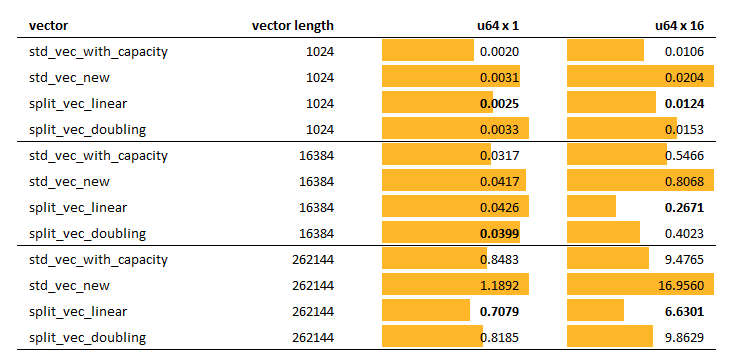
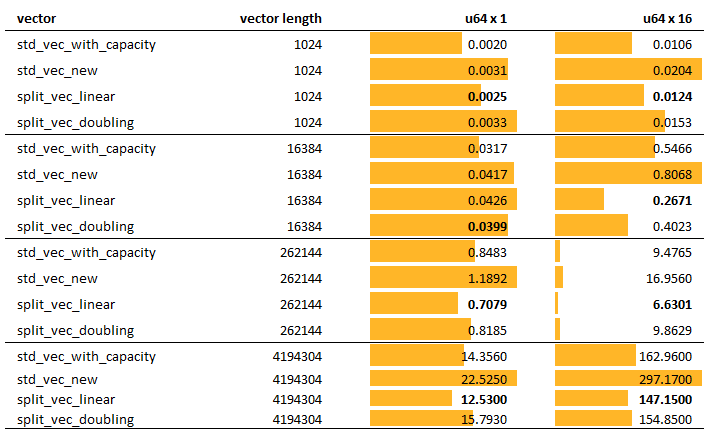
benchmarks finalized

Changed region(s): [[0.0, 0.0304, 0.9832, 0.9724]]

diff --git a/src/lib.rs b/src/lib.rs
@@ -23,7 +23,7 @@
 //! |------------------------------------------------------------------------------|----------------------------------------------------------------------------------|
 //! | Implements `PinnedVec` => can be wrapped by an `ImpVec`.                     | Implements `PinnedVec` => can be wrapped by an `ImpVec`.                         |
 //! | Requires exact capacity to be known while creating.                          | Can be created with any level of prior information about required capacity.      |
-//! | Cannot grow beyond capacity; panics when `push` is called at capacity.       | Can grow dynamically. Further, it provides detailed control on how it must grow. |
+//! | Cannot grow beyond capacity; panics when `push` is called at capacity.       | Can grow dynamically. Further, it provides control on how it must grow. |
 //! | It is just a wrapper around `std::vec::Vec`; hence, has similar performance. | Performs additional tasks to provide flexibility; hence, slightly slower.        |
 //!
 //! ## C. Growth with Pinned Elements
@@ -40,21 +40,20 @@
 //! |-----------------------------------------|-----------------------|-----------------------|-----------------|
 //! | `Linear`                                | `C`                   | `C`                   | `2 * C`         |
 //! | `Doubling`                              | `C`                   | `2 * C`               | `3 * C`         |
-//! | `Exponential { growth_coefficient: a }` | `C`                   | `a * C`               | `(1 + a) * C`   |
 //!
-//! It is straightforward to derive the growth formula from the example. Further, you may notice that `Doubling` is a special case of `Exponential` where `growth_coefficient` is 2; the reason it co-exists is that it allows for faster element access in general.
+//! `C` is set on initialization as a power of two for `Linear` and fixed to 4 for `Doubling` to allow for access time optimizations.
 //!
 //! ### C.2. Custom Growth Strategies
 //!
 //! In order to define a custom growth strategy, one needs to implement the `Growth` trait. Implementation is straightforward. The trait contains two methods. The following method is required:
 //!
 //! ```rust ignore
-//! fn new_fragment_capacity<T>(&self, fragments: &[Fragment<T>]) -> usize;
+//! fn new_fragment_capacity<T>(&self, fragments: &[Fragment<T>]) -> usize
 //! ```
 //!
 //! Notice that it takes as argument all priorly allocated fragments and needs to decide on the capacity of the new fragment.
 //!
-//! The second method `fn get_fragment_and_inner_indices<T>(&self, fragments: &[Fragment<T>], element_index: usize) -> Option<(usize, usize)>` has a default implementation and can be overwritten if the strategy allows for efficient computation of the indices.
+//! The second method `fn get_fragment_and_inner_indices<T>(&self, vec_len: usize, fragments: &[Fragment<T>], element_index: usize) -> Option<(usize, usize)>` has a default implementation and can be overwritten if the strategy allows for efficient computation of the indices.
 //!
 //! ## D. Examples
 //!
@@ -170,7 +169,7 @@
 //!     assert_eq!(if i == 0 { 42 } else { i }, *elem);
 //! }
 //!
-//! // now the split vector is composed of 11 fragments each with a capacity of 8 (2^3)
+//! // now the split vector is composed of `11` fragments each with a capacity of 8 (2^3)
 //! assert_eq!(11, vec.fragments().len());
 //!
 //! // the memory location of the first element remains intact
@@ -179,6 +178,31 @@
 //! // we can safely (using unsafe!) dereference it and read the correct value
 //! assert_eq!(unsafe { *addr42 }, 42);
 //! ```
+//!
+//! ## E. Benchmarks
+//!
+//! Split vector variants have a comparable speed with the standard vector while building and between 1 - 4 times slower with random access. The latter varies on the element size of the vector and the number of elements in the network. The gap diminishes as either of these factors increases. You may see the details below.
+//!
+//! ### E.1. Grow
+//!
+//! *You may see the benchmark at [benches/grow.rs](https://github.com/orxfun/orx-split-vec/blob/main/benches/grow.rs).*
+//!
+//! The benchmark compares the build up time of vectors by pushing elements one by one. The baseline is the vector created by `std::vec::Vec::with_capacity` which has the perfect information on the number of elements to be pushed and writes to a contagious memory location. The compared variants are vectors created with no prior knowledge about capacity: `std::vec::Vec::new`, `SplitVec<_, Linear>` and `SplitVec<_, Doubling>`.
+//!
+//! ![](https://github.com/orxfun/orx-split-vec/blob/main/docs/img/bench_grow.PNG)
+//!
+//! Allowing copy-free growth, split vector variants have a comparable speed with `std::vec::Vec::with_capacity`, which can be around 1.5 times faster for 1-u64 size elements (2-3 times faster for 16-u64 size elements) than `std::vec::Vec::new`. Overall, the differences can be considered insignificant in most cases.
+//!
+//! ### E.2. Random Access
+//!
+//! *You may see the benchmark at [benches/random-access.rs](https://github.com/orxfun/orx-split-vec/blob/main/benches/random-access.rs).*
+//!
+//! In this benchmark, we access vector elements by indices in a random order. Note that due to the fragmentation and additional book-keeping, `SplitVec` cannot be as fast as the standard `Vec`. However, `Linear` and `Doubling` growth strategies are optimized to minimize the gap as much as possible.
+//!
+//! ![](https://github.com/orxfun/orx-split-vec/blob/main/docs/img/bench_random_access.PNG)
+//!
+//! For vectors having u64-sized elements, the split vector variants are around 2-4 times slower than the standard vector; the difference gets smaller as the number of elements increases. The difference further diminishes as the size of each element increases, as can be observed in 16-u64-sized elements.
+//!
 //!
 //! ## License
 //!

diff --git a/benches/random_access.rs b/benches/random_access.rs
@@ -123,7 +123,7 @@ fn bench(c: &mut Criterion) {
 
     let mut group = c.benchmark_group("random_access");
 
-    const N: usize = 1;
+    const N: usize = 16;
     test_for_type::<[u64; N]>(&mut group, N, &treatments, get_value, add);
 
     group.finish();

diff --git a/README.md b/README.md
@@ -182,13 +182,28 @@ assert_eq!(unsafe { *addr42 }, 42);
 
 ## E. Benchmarks
 
+Split vector variants have a comparable speed with the standard vector while building and between 1 - 4 times slower with random access. The latter varies on the element size of the vector and the number of elements in the network. The gap diminishes as either of these factors increases. You may see the details below.
+
 ### E.1. Grow
 
-You may see the benchmark at (https://github.com/orxfun/orx-split-vec/blob/main/benches/grow.rs)[https://github.com/orxfun/orx-split-vec/blob/main/benches/grow.rs].
+*You may see the benchmark at [benches/grow.rs](https://github.com/orxfun/orx-split-vec/blob/main/benches/grow.rs).*
 
 The benchmark compares the build up time of vectors by pushing elements one by one. The baseline is the vector created by `std::vec::Vec::with_capacity` which has the perfect information on the number of elements to be pushed and writes to a contagious memory location. The compared variants are vectors created with no prior knowledge about capacity: `std::vec::Vec::new`, `SplitVec<_, Linear>` and `SplitVec<_, Doubling>`.
 
 ![](https://github.com/orxfun/orx-split-vec/blob/main/docs/img/bench_grow.PNG)
+
+Allowing copy-free growth, split vector variants have a comparable speed with `std::vec::Vec::with_capacity`, which can be around 1.5 times faster for 1-u64 size elements (2-3 times faster for 16-u64 size elements) than `std::vec::Vec::new`. Overall, the differences can be considered insignificant in most cases.
+
+### E.2. Random Access
+
+*You may see the benchmark at [benches/random-access.rs](https://github.com/orxfun/orx-split-vec/blob/main/benches/random-access.rs).*
+
+In this benchmark, we access vector elements by indices in a random order. Note that due to the fragmentation and additional book-keeping, `SplitVec` cannot be as fast as the standard `Vec`. However, `Linear` and `Doubling` growth strategies are optimized to minimize the gap as much as possible.
+
+![](https://github.com/orxfun/orx-split-vec/blob/main/docs/img/bench_random_access.PNG)
+
+For vectors having u64-sized elements, the split vector variants are around 2-4 times slower than the standard vector; the difference gets smaller as the number of elements increases. The difference further diminishes as the size of each element increases, as can be observed in 16-u64-sized elements.
+
 
 ## License
 
